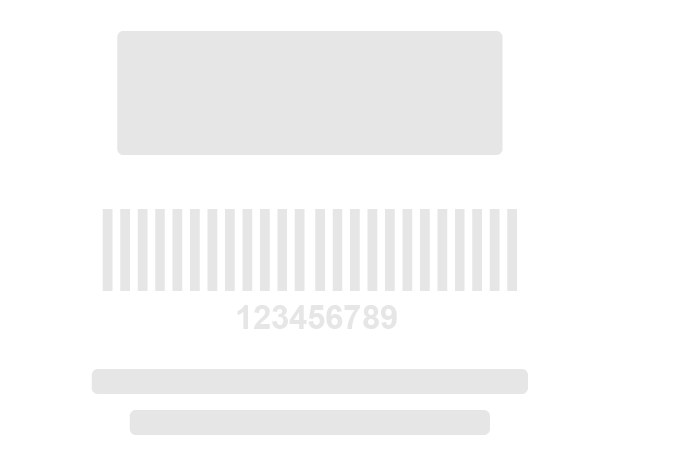
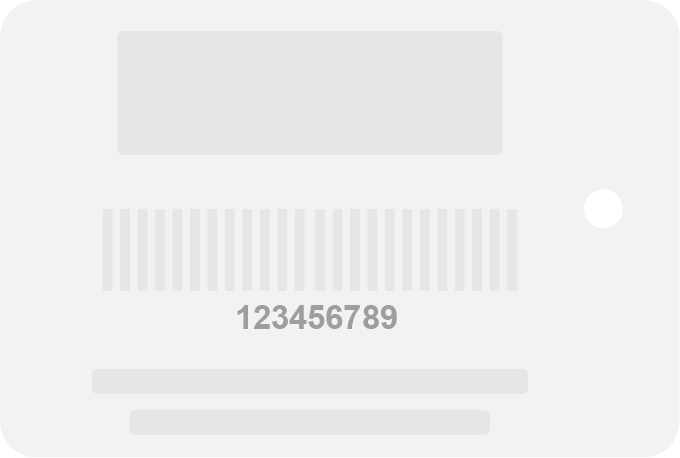
form member v1.1

Changed region(s): [[0.3397, 0.6419, 0.5868, 0.7336]]

diff --git a/src/components/landing/member/InformationStep3.vue b/src/components/landing/member/InformationStep3.vue
@@ -6,18 +6,28 @@ import {
   direccionInput,
   member,
 } from '/@src/state/wizardStateLandingMembersUpdated'
-
+import { getcities, getstates, getcontries } from '/@src/services/config.ts'
 import {
   notyf,
   getInput,
   perpareDataInputs,
   setInputModelData,
+  setInputValuesData,
   hasErrors,
 } from '/@src/models/Mixin.ts'
 
 const isLoaderActive = ref(false)
 
-onMounted(() => {
+onMounted(async () => {
+  await getcities().then((response) => {
+    setInputValuesData(direccionInput.value, 'city_id', response.value)
+  })
+  await getstates().then((response) => {
+    setInputValuesData(direccionInput.value, 'state_id', response.value)
+  })
+  await getcontries().then((response) => {
+    setInputValuesData(direccionInput.value, 'country_id', response.value)
+  })
   for (var i in member.value) {
     setInputModelData(direccionInput, i, member.value[i])
   }
@@ -44,7 +54,20 @@ const onChangeStep = () => {
           <inputsLayaut :inputs-step="direccionInput" />
 
           <VLoader style="height: 50px" :active="isLoaderActive">
-            <VButton @click="onChangeStep">Continue</VButton>
+            <div class="d-flex justify-content-between">
+              <VButton
+                outlined
+                color="danger"
+                class="mr-3"
+                @click="
+                  confirm('Rolling back will lose changes')
+                    ? (currentStep = 2)
+                    : (currentStep = currentStep)
+                "
+                >Back</VButton
+              >
+              <VButton color="success" @click="onChangeStep">Continue</VButton>
+            </div>
           </VLoader>
         </div>
       </div>

diff --git a/src/components/inputsLayaut.vue b/src/components/inputsLayaut.vue
@@ -186,10 +186,12 @@ const takePhoto = (event) => {
           ].includes(input.typeInput)
         "
         :data-class="input.class"
+        v-show="input.typeInput != 'hidden'"
       >
         <label class="label" v-if="input.isLabel" :for="input.name">
           <p class="m-0 text-left">
             {{ input.label ? input.label : input.placeholder }}
+            <span v-if="input.required" style="color: red">*</span>
           </p>
         </label>
         <V-Control :has-error="input.hasError ?? false">
@@ -239,6 +241,7 @@ const takePhoto = (event) => {
         <label class="label" v-if="input.isLabel" :for="input.name">
           <p class="m-0 text-left">
             {{ input.label ? input.label : input.placeholder }}
+            <span v-if="input.required" style="color: red">*</span>
           </p>
         </label>
         <V-Control class="input-select" :has-error="input.hasError ?? false">
@@ -265,6 +268,7 @@ const takePhoto = (event) => {
         <label class="label" v-if="input.isLabel" :for="input.name">
           <p class="m-0 text-left">
             {{ input.label ? input.label : input.placeholder }}
+            <span v-if="input.required" style="color: red">*</span>
           </p>
         </label>
         <!-- <p>{{ input.values }}</p> -->

diff --git a/src/state/wizardStateLandingMembersUpdated.ts b/src/state/wizardStateLandingMembersUpdated.ts
@@ -11,6 +11,8 @@
 import { reactive, ref, computed } from 'vue'
 import sleep from '/@src/utils/sleep'
 import { Api } from '/@src/services'
+
+import { getInput } from '/@src/models/Mixin.ts'
 /**
  * Using typescript types allow better developer experience
  * with autocompletion and compiler error prechecking
@@ -204,16 +206,25 @@ export const inputsInformation = ref([
     isLabel: true,
   },
   {
-    typeInput: 'switch',
+    typeInput: 'switchEventChangeInput',
     name: 'leo_vet_fr',
     values: ['', 'LEO / VET / FR'],
     placeholder: 'LEO / VET / FR',
     model: false,
     required: false,
     class: 'is-5',
+    change: function (inputsStep: any) {
+      if (!this.model) {
+        getInput(inputsStep, 'id_leo_vet_fr').typeInput = 'number'
+        getInput(inputsStep, 'id_leo_vet_fr').required = true
+      } else {
+        getInput(inputsStep, 'id_leo_vet_fr').typeInput = 'hidden'
+        getInput(inputsStep, 'id_leo_vet_fr').required = false
+      }
+    },
   },
   {
-    typeInput: 'number',
+    typeInput: 'hidden',
     name: 'id_leo_vet_fr',
     placeholder: 'LEO / VET / FR ID#',
     model: '',

diff --git a/src/components/partials/wizard/WizardLanginNavigation.vue b/src/components/partials/wizard/WizardLanginNavigation.vue
@@ -26,13 +26,30 @@ const setStep = (target: number) => {
 <template>
   <nav class="wizard-navigation">
     <VPlaceloadAvatar v-if="isLoading" class="mx-1" size="medium" />
-    <VAvatar v-else :picture="company.logo" size="medium" />
+    <VAvatar v-else :picture="company.logo" squared size="medium" />
 
-    <div class="navbar-item is-wizard-title">
+    <div class="navbar-item is-wizard-title" style="width: 70%">
       <VPlaceload v-if="isLoading" height="25px" width="200px" class="mx-2" />
-      <span v-else class="title-wrap">
+      <p v-else class="title is-6">
         Step {{ currentStep }}: <span>{{ stepTitle }}</span>
-      </span>
+      </p>
+    </div>
+
+    <div class="navbar-item is-dark-mode">
+      <div class="navbar-icon">
+        <label class="dark-mode">
+          <input
+            type="checkbox"
+            :checked="!isDark"
+            @change="
+              (event) => {
+                isDark = !event.target.checked
+              }
+            "
+          />
+          <span></span>
+        </label>
+      </div>
     </div>
   </nav>
 </template>

diff --git a/src/pages/landing/member/updated.vue b/src/pages/landing/member/updated.vue
@@ -24,7 +24,7 @@ import {
   notyf,
 } from '/@src/models/Mixin.ts'
 
-import { getAllConfig } from '/@src/services/config.ts'
+import { getcities, getstates, getcontries } from '/@src/services/config.ts'
 import { getCompanySlug } from '/@src/models/Companies.ts'
 
 useHead({
@@ -52,11 +52,14 @@ onMounted(async () => {
     .catch((error) => {
       notyf.error(error.response.data)
     })
-
-  await getAllConfig().then((response) => {
-    setInputValuesData(direccionInput.value, 'city_id', response.cities)
-    setInputValuesData(direccionInput.value, 'state_id', response.states)
-    setInputValuesData(direccionInput.value, 'country_id', response.contries)
+  await getcities().then((response) => {
+    setInputValuesData(direccionInput.value, 'city_id', response.value)
+  })
+  await getstates().then((response) => {
+    setInputValuesData(direccionInput.value, 'state_id', response.value)
+  })
+  await getcontries().then((response) => {
+    setInputValuesData(direccionInput.value, 'country_id', response.value)
   })
 })
 </script>

diff --git a/src/components/landing/member/InformationStep2.vue b/src/components/landing/member/InformationStep2.vue
@@ -80,7 +80,20 @@ const onChangeStep = () => {
           <inputsLayaut :inputs-step="inputsInformation" />
 
           <VLoader style="height: 50px" :active="isLoaderActive">
-            <VButton @click="onChangeStep">Continue</VButton>
+            <div class="d-flex justify-content-between">
+              <VButton
+                outlined
+                color="danger"
+                class="mr-3"
+                @click="
+                  confirm('Rolling back will lose changes')
+                    ? (currentStep = 1)
+                    : (currentStep = currentStep)
+                "
+                >Back</VButton
+              >
+              <VButton color="success" @click="onChangeStep">Continue</VButton>
+            </div>
           </VLoader>
         </div>
       </div>

diff --git a/src/components/landing/member/InformationStep4.vue b/src/components/landing/member/InformationStep4.vue
@@ -59,7 +59,20 @@ const onChangeStep = () => {
           <inputsLayaut :inputs-step="paymentData" />
 
           <VLoader style="height: 50px" :active="isLoaderActive">
-            <VButton @click="onChangeStep">Continue</VButton>
+            <div class="d-flex justify-content-between">
+              <VButton
+                outlined
+                color="danger"
+                class="mr-3"
+                @click="
+                  confirm('Rolling back will lose changes')
+                    ? (currentStep = 3)
+                    : (currentStep = currentStep)
+                "
+                >Back</VButton
+              >
+              <VButton color="success" @click="onChangeStep">Continue</VButton>
+            </div>
           </VLoader>
         </div>
       </div>

diff --git a/src/components/landing/member/InformationStep1.vue b/src/components/landing/member/InformationStep1.vue
@@ -46,7 +46,14 @@ const onsearchBarCode = () => {
       <div class="wizard-types">
         <div class="text-center p-1 pt-4">
           <div style="width: 80%" class="mx-auto">
-            <img src="/@src/assets/card.png" alt="" />
+            <img
+              src="/@src/assets/card.png"
+              style="
+                box-shadow: 0px 0px 4px rgba(0, 0, 0, 0.2);
+                border-radius: 15px;
+              "
+              alt=""
+            />
           </div>
           <!-- <h3 class="dark-inverted">UI/UX Design</h3> -->
           <!-- <p>Some short explanation about the type goes here.</p> -->

diff --git a/src/scss/style.scss b/src/scss/style.scss
@@ -214,9 +214,9 @@ body.is-dark {
 input,
 select,
 label.checkbox span {
-  border-color: #2d2d31 !important;
+  border-color: rgba(#2d2d31, 0.3) !important;
   &::placeholder {
-    color: #2d2d31 !important;
+    color: rgba(#2d2d31, 0.3) !important;
   }
 }
 
@@ -233,6 +233,9 @@ fieldset[disabled='false'] .checkbox,
   justify-content: center;
 }
 
+.button {
+  border-color: rgba(#2d2d31, 0.3) !important;
+}
 .btn-card {
   cursor: pointer;
   &:hover {

diff --git a/src/router.ts b/src/router.ts
@@ -48,7 +48,7 @@ const routesCustom: RouteRecordRaw = [
 
 routes.value = routes.concat(routesCustom)
 
-console.log('routes', routes)
+// console.log('routes', routes)
 
 const router = createRouter({
   history: createWebHistory(),
